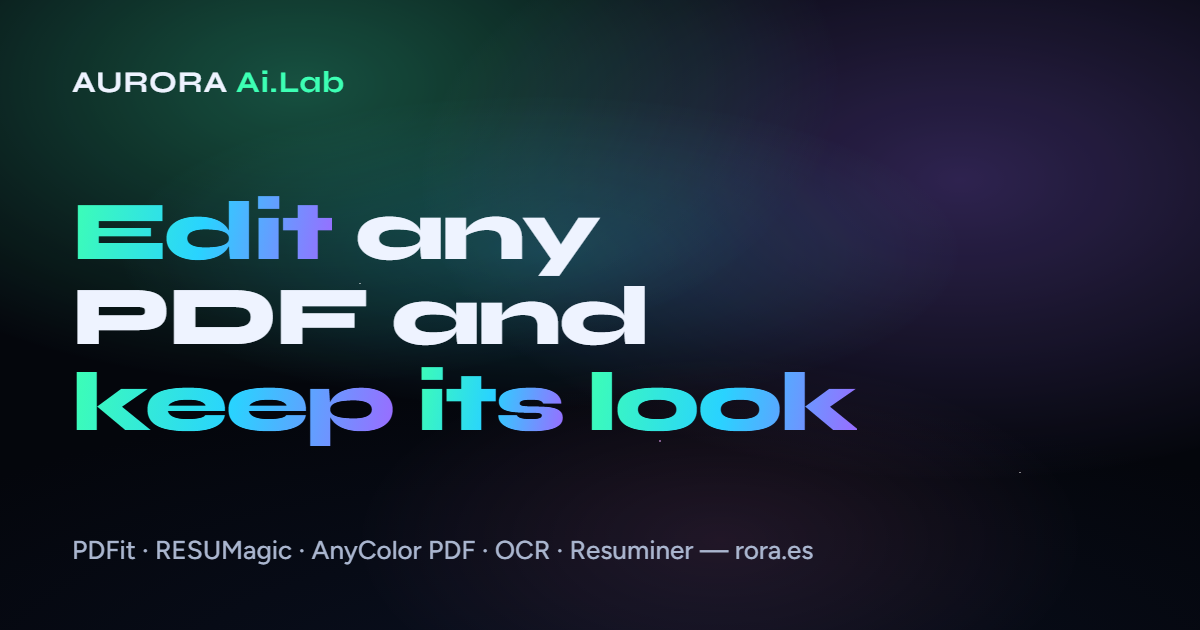
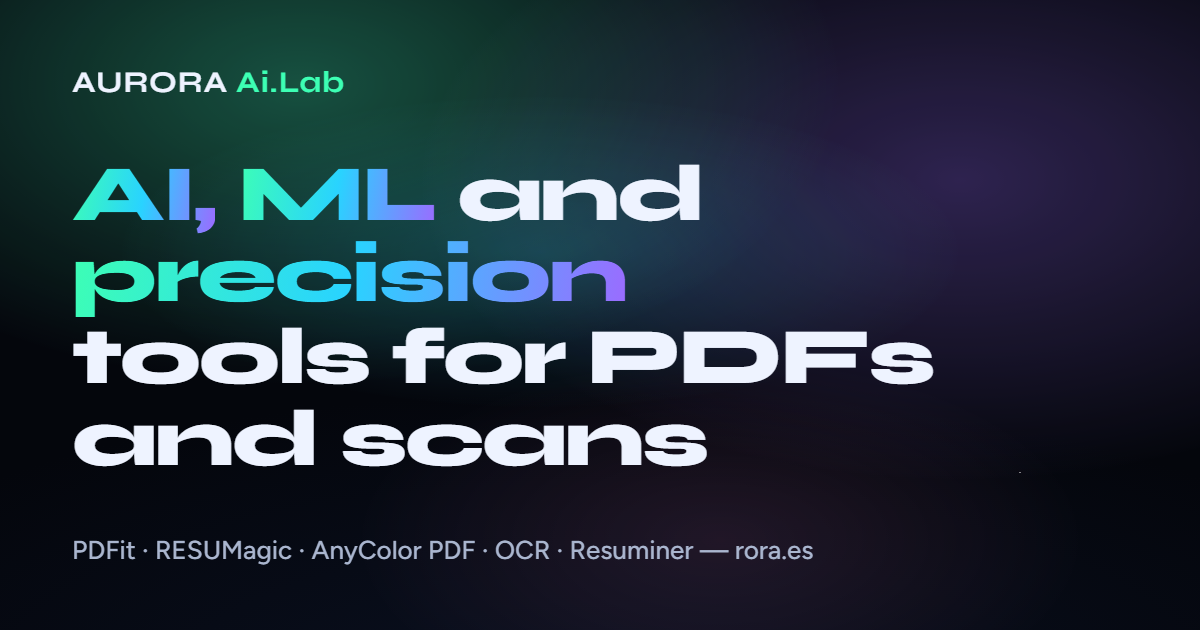
Home page: simpler first screen, AI/ML/precision headline, four-word squares, API access moved to footer
Claude-Session: https://claude.ai/code/session_018wxw8nUirvxwf4q119Hca8

Changed region(s): [[0.0617, 0.2413, 0.8017, 0.754]]

diff --git a/es/index.html b/es/index.html
@@ -3,7 +3,7 @@
 <head>
 <meta charset="utf-8">
 <meta name="viewport" content="width=device-width, initial-scale=1, viewport-fit=cover">
-<title>AURORA Ai.Lab — edita cualquier PDF sin perder su diseño; OCR y análisis de currículos para empresas</title>
+<title>AURORA Ai.Lab — IA, ML y herramientas de precisión para PDF y escaneos</title>
 <meta name="description" content="AURORA Ai.Lab crea herramientas de documentos. Para todos: edición de PDF en línea que conserva fuentes y maquetación, edición de currículos y recoloreado de PDF. Para empresas: OCR para PDF y escaneos y análisis de currículos a XML para ATS.">
 <link rel="canonical" href="https://rora.es/es/">
 <link rel="alternate" hreflang="en" href="https://rora.es/">
@@ -12,7 +12,7 @@
 <meta property="og:type" content="website">
 <meta property="og:site_name" content="AURORA Ai.Lab">
 <meta property="og:locale" content="es_ES">
-<meta property="og:title" content="AURORA Ai.Lab — edita cualquier PDF sin perder su diseño">
+<meta property="og:title" content="AURORA Ai.Lab — IA, ML y herramientas de precisión para PDF y escaneos">
 <meta property="og:description" content="Edición de PDF en línea que conserva fuentes y maquetación, edición de currículos y recoloreado de PDF. OCR y análisis de currículos para empresas.">
 <meta property="og:url" content="https://rora.es/es/">
 <meta property="og:image" content="https://rora.es/og.png">
@@ -40,12 +40,7 @@
   </header>
 
   <main class="hero">
-    <h1><span class="w hl" style="--i:0">Edita</span> <span class="w" style="--i:1">cualquier</span> <span class="w" style="--i:2">PDF</span> <span class="w" style="--i:3">sin</span> <span class="w" style="--i:4">perder</span> <span class="w hl" style="--i:5">su</span> <span class="w hl" style="--i:6">diseño</span><span class="scan" aria-hidden="true"></span></h1>
-    <p class="lede">Redes neuronales propias, OCR y procesamiento de PDF, desarrollados por nosotros.</p>
-    <div class="actions">
-      <a class="btn" href="https://pdfit.rora.es">Editar un PDF con PDFit <span class="go" aria-hidden="true">→</span></a>
-      <a class="link2" href="/ocr.html">Cómo funciona nuestro OCR</a>
-    </div>
+    <h1><span class="w hl" style="--i:0">IA,</span> <span class="w hl" style="--i:1">ML</span> <span class="w" style="--i:2">y</span> <span class="w" style="--i:3">herramientas</span> <span class="w" style="--i:4">de</span> <span class="w hl" style="--i:5">precisión</span> <span class="w" style="--i:6">para</span> <span class="w" style="--i:7">PDF</span> <span class="w" style="--i:8">y</span> <span class="w" style="--i:9">escaneos</span><span class="scan" aria-hidden="true"></span></h1>
   </main>
 
   <section class="products" aria-label="Productos">
@@ -53,20 +48,20 @@
       <div class="group g-people">
         <h2>Para todos</h2>
         <div class="tiles">
-        <a class="tile link" href="https://pdfit.rora.es" style="--n:0">
+        <a class="tile link primary" href="https://pdfit.rora.es" style="--n:0">
           <span class="ico" aria-hidden="true"><svg viewBox="0 0 40 40"><path d="M10 5h14l7 7v23H10z"/><path d="M24 5v7h7M15 19h11M15 24h6M24 22v8"/></svg></span>
           <span class="tag live">En línea</span>
-          <span class="txt"><h3>AURORA PDFit <span class="go" aria-hidden="true">→</span></h3><p>Edición de PDF en línea como en Word, conservando fuentes, flujo del texto, estructura, fondos y gráficos.</p></span>
+          <span class="txt"><h3>AURORA PDFit <span class="go" aria-hidden="true">→</span></h3><p>Edita PDF como en Word</p></span>
         </a>
         <div class="tile" style="--n:1">
           <span class="ico" aria-hidden="true"><svg viewBox="0 0 40 40"><rect x="7" y="6" width="22" height="28" rx="2"/><path d="M12 12h5v8h-5zM20 12h5M20 16h5M20 20h5M12 25h13M12 29h9M33 5v6M30 8h6"/></svg></span>
           <span class="tag">Pronto</span>
-          <span class="txt"><h3>AURORA RESUMagic</h3><p>Editor de currículos en PDF que respeta la estructura de plantillas complejas de Canva y otras.</p></span>
+          <span class="txt"><h3>AURORA RESUMagic</h3><p>Edita currículos de cualquier plantilla</p></span>
         </div>
         <div class="tile" style="--n:2">
           <span class="ico" aria-hidden="true"><svg viewBox="0 0 40 40"><circle cx="15" cy="16" r="8"/><circle cx="25" cy="16" r="8"/><circle cx="20" cy="25" r="8"/></svg></span>
           <span class="tag">Pronto</span>
-          <span class="txt"><h3>AnyColor PDF</h3><p>Recoloreado de PDF para imprimir con los colores de tóner o tinta disponibles.</p></span>
+          <span class="txt"><h3>AnyColor PDF</h3><p>Imprime con cualquier tinta</p></span>
         </div>
         </div>
       </div>
@@ -76,18 +71,16 @@
         <a class="tile link" href="/ocr.html" style="--n:3">
           <span class="ico" aria-hidden="true"><svg viewBox="0 0 40 40"><path d="M6 12V6h6M28 6h6v6M34 28v6h-6M12 34H6v-6"/><path d="M14 28l6-16 6 16M16.5 22h7"/></svg></span>
           <span class="tag more">Detalles</span>
-          <span class="txt"><h3>AURORA OCR <span class="go" aria-hidden="true">→</span></h3><p>OCR para PDF y escaneos: reconocimiento de caracteres y líneas, identificación de fuentes y análisis de maquetación.</p></span>
+          <span class="txt"><h3>AURORA OCR <span class="go" aria-hidden="true">→</span></h3><p>Lee PDF y escaneos</p></span>
         </a>
         <div class="tile" style="--n:4">
           <span class="ico" aria-hidden="true"><svg viewBox="0 0 40 40"><path d="M6 6h14l6 6v22H6z"/><path d="M11 16h9M11 21h9M11 26h5"/><path d="M29 24l-3 3 3 3M34 24l3 3-3 3"/></svg></span>
           <span class="tag">Pronto</span>
-          <span class="txt"><h3>AURORA Resuminer</h3><p>Análisis determinista de currículos a XML estructurado para integración con ATS y búsqueda.</p></span>
+          <span class="txt"><h3>AURORA Resuminer</h3><p>Currículos a XML estructurado</p></span>
         </div>
         </div>
-        <a class="api" href="mailto:info@rora.es?subject=Acceso%20a%20la%20API">Solicitar acceso a la API <span aria-hidden="true">→</span></a>
       </div>
     </div>
-    <p class="stage">Los productos están en distintas fases; varios están cerca del lanzamiento.</p>
   </section>
 
   <footer>
@@ -97,6 +90,7 @@
     <a href="https://es.linkedin.com/in/vladimir-rora">Vladimir Rora en LinkedIn</a><br>
     Empresa: <a href="https://www.linkedin.com/company/aurora-ocr-lab/">AURORA Ai.Lab en LinkedIn</a> ·
     <a href="mailto:info@rora.es">info@rora.es</a> ·
+    <a href="mailto:info@rora.es?subject=Acceso%20a%20la%20API">Solicitar acceso a la API</a> ·
     <a href="/Aurora_OCR_pitch_deck.pdf">Presentación (PDF)</a><br>
     © 2025–2026 Sistema de Autorecluta, S.L. · España<br>
     <a href="/legal.html">Aviso legal / Legal notice</a> · <a href="/privacy.html">Privacidad / Privacy</a>

diff --git a/index.html b/index.html
@@ -3,7 +3,7 @@
 <head>
 <meta charset="utf-8">
 <meta name="viewport" content="width=device-width, initial-scale=1, viewport-fit=cover">
-<title>AURORA Ai.Lab — edit any PDF and keep its look; OCR and resume parsing for business</title>
+<title>AURORA Ai.Lab — AI, ML and precision tools for PDFs and scans</title>
 <meta name="description" content="AURORA Ai.Lab builds document tools. For everyone: online PDF editing that keeps fonts and layout, resume editing and PDF recolouring. For business: OCR for PDFs and scans and resume parsing into XML for ATS.">
 <link rel="canonical" href="https://rora.es/">
 <link rel="alternate" hreflang="en" href="https://rora.es/">
@@ -11,7 +11,7 @@
 <link rel="alternate" hreflang="x-default" href="https://rora.es/">
 <meta property="og:type" content="website">
 <meta property="og:site_name" content="AURORA Ai.Lab">
-<meta property="og:title" content="AURORA Ai.Lab — edit any PDF and keep its look">
+<meta property="og:title" content="AURORA Ai.Lab — AI, ML and precision tools for PDFs and scans">
 <meta property="og:description" content="Online PDF editing that keeps fonts and layout, resume editing and PDF recolouring. OCR and resume parsing for business.">
 <meta property="og:url" content="https://rora.es/">
 <meta property="og:image" content="https://rora.es/og.png">
@@ -39,12 +39,7 @@
   </header>
 
   <main class="hero">
-    <h1><span class="w hl" style="--i:0">Edit</span> <span class="w" style="--i:1">any</span> <span class="w" style="--i:2">PDF</span> <span class="w" style="--i:3">and</span> <span class="w hl" style="--i:4">keep</span> <span class="w hl" style="--i:5">its</span> <span class="w hl" style="--i:6">look</span><span class="scan" aria-hidden="true"></span></h1>
-    <p class="lede">Custom neural networks, OCR and PDF processing, built in-house.</p>
-    <div class="actions">
-      <a class="btn" href="https://pdfit.rora.es">Edit a PDF with PDFit <span class="go" aria-hidden="true">→</span></a>
-      <a class="link2" href="/ocr.html">How our OCR works</a>
-    </div>
+    <h1><span class="w hl" style="--i:0">AI,</span> <span class="w hl" style="--i:1">ML</span> <span class="w" style="--i:2">and</span> <span class="w hl" style="--i:3">precision</span> <span class="w" style="--i:4">tools</span> <span class="w" style="--i:5">for</span> <span class="w" style="--i:6">PDFs</span> <span class="w" style="--i:7">and</span> <span class="w" style="--i:8">scans</span><span class="scan" aria-hidden="true"></span></h1>
   </main>
 
   <section class="products" aria-label="Products">
@@ -52,20 +47,20 @@
       <div class="group g-people">
         <h2>For everyone</h2>
         <div class="tiles">
-        <a class="tile link" href="https://pdfit.rora.es" style="--n:0">
+        <a class="tile link primary" href="https://pdfit.rora.es" style="--n:0">
           <span class="ico" aria-hidden="true"><svg viewBox="0 0 40 40"><path d="M10 5h14l7 7v23H10z"/><path d="M24 5v7h7M15 19h11M15 24h6M24 22v8"/></svg></span>
           <span class="tag live">Live</span>
-          <span class="txt"><h3>AURORA PDFit <span class="go" aria-hidden="true">→</span></h3><p>Word-like online PDF editing that preserves fonts, text flow, structure, backgrounds and graphics.</p></span>
+          <span class="txt"><h3>AURORA PDFit <span class="go" aria-hidden="true">→</span></h3><p>Edit PDFs like Word</p></span>
         </a>
         <div class="tile" style="--n:1">
           <span class="ico" aria-hidden="true"><svg viewBox="0 0 40 40"><rect x="7" y="6" width="22" height="28" rx="2"/><path d="M12 12h5v8h-5zM20 12h5M20 16h5M20 20h5M12 25h13M12 29h9M33 5v6M30 8h6"/></svg></span>
           <span class="tag">Soon</span>
-          <span class="txt"><h3>AURORA RESUMagic</h3><p>Structure-aware PDF resume editor for complex Canva and other templates.</p></span>
+          <span class="txt"><h3>AURORA RESUMagic</h3><p>Edit résumés from any template</p></span>
         </div>
         <div class="tile" style="--n:2">
           <span class="ico" aria-hidden="true"><svg viewBox="0 0 40 40"><circle cx="15" cy="16" r="8"/><circle cx="25" cy="16" r="8"/><circle cx="20" cy="25" r="8"/></svg></span>
           <span class="tag">Soon</span>
-          <span class="txt"><h3>AnyColor PDF</h3><p>PDF recolouring for printing with available toner or ink colours.</p></span>
+          <span class="txt"><h3>AnyColor PDF</h3><p>Print with any ink</p></span>
         </div>
         </div>
       </div>
@@ -75,18 +70,16 @@
         <a class="tile link" href="/ocr.html" style="--n:3">
           <span class="ico" aria-hidden="true"><svg viewBox="0 0 40 40"><path d="M6 12V6h6M28 6h6v6M34 28v6h-6M12 34H6v-6"/><path d="M14 28l6-16 6 16M16.5 22h7"/></svg></span>
           <span class="tag more">Details</span>
-          <span class="txt"><h3>AURORA OCR <span class="go" aria-hidden="true">→</span></h3><p>OCR for PDFs and scans: character/text-line recognition, font identification and layout analysis.</p></span>
+          <span class="txt"><h3>AURORA OCR <span class="go" aria-hidden="true">→</span></h3><p>Read PDFs and scans</p></span>
         </a>
         <div class="tile" style="--n:4">
           <span class="ico" aria-hidden="true"><svg viewBox="0 0 40 40"><path d="M6 6h14l6 6v22H6z"/><path d="M11 16h9M11 21h9M11 26h5"/><path d="M29 24l-3 3 3 3M34 24l3 3-3 3"/></svg></span>
           <span class="tag">Soon</span>
-          <span class="txt"><h3>AURORA Resuminer</h3><p>Deterministic resume parsing into structured XML for ATS integration and search.</p></span>
+          <span class="txt"><h3>AURORA Resuminer</h3><p>Résumés to structured XML</p></span>
         </div>
         </div>
-        <a class="api" href="mailto:info@rora.es?subject=API%20access">Request API access <span aria-hidden="true">→</span></a>
       </div>
     </div>
-    <p class="stage">Products are at different stages; several are approaching launch.</p>
   </section>
 
   <footer>
@@ -96,6 +89,7 @@
     <a href="https://es.linkedin.com/in/vladimir-rora">Vladimir Rora on LinkedIn</a><br>
     Company: <a href="https://www.linkedin.com/company/aurora-ocr-lab/">AURORA Ai.Lab on LinkedIn</a> ·
     <a href="mailto:info@rora.es">info@rora.es</a> ·
+    <a href="mailto:info@rora.es?subject=API%20access">Request API access</a> ·
     <a href="/Aurora_OCR_pitch_deck.pdf">Pitch deck (PDF)</a><br>
     © 2025–2026 Sistema de Autorecluta, S.L. · Spain<br>
     <a href="/legal.html">Legal notice / Aviso legal</a> · <a href="/privacy.html">Privacy / Privacidad</a>

diff --git a/aurora.css b/aurora.css
@@ -61,8 +61,8 @@ header { display: flex; justify-content: space-between; align-items: center; gap
 .lang a[aria-current="true"] { color: var(--night); background: var(--ink); }
 
 /* hero: the promise, read in by a scan line */
-.hero { position: relative; display: grid; gap: 16px; justify-items: start; padding-top: clamp(8px, 4vh, 40px); }
-h1 { position: relative; margin: 0; max-width: 17ch; font: 800 clamp(2rem, 5.2vw, 4.4rem)/1.02 var(--display); letter-spacing: -.03em; text-wrap: balance; }
+.hero { position: relative; display: grid; justify-items: start; padding-top: clamp(16px, 7vh, 72px); padding-bottom: clamp(0px, 2vh, 16px); }
+h1 { position: relative; margin: 0; max-width: 16ch; font: 800 clamp(2rem, 5.2vw, 4.4rem)/1.02 var(--display); letter-spacing: -.03em; text-wrap: balance; }
 h1 .w { display: inline-block; animation: read 1s cubic-bezier(.16, 1, .3, 1) both; animation-delay: calc(var(--i) * 80ms + 200ms); }
 h1 .w.hl { color: transparent; -webkit-background-clip: text; background-clip: text;
   background-image: linear-gradient(100deg, var(--green), var(--teal) 50%, var(--violet)); }
@@ -93,7 +93,7 @@ h1 .w.hl { color: transparent; -webkit-background-clip: text; background-clip: t
 .api { justify-self: start; font-weight: 600; color: var(--teal); text-decoration: none; padding: 4px 0; }
 .api span { display: inline-block; transition: transform .3s cubic-bezier(.16, 1, .3, 1); }
 .api:hover span { transform: translateX(4px); }
-.tile { position: relative; min-width: 0; min-height: clamp(12.5rem, 16vw, 14.5rem); border-radius: 22px; padding: 18px; isolation: isolate;
+.tile { position: relative; min-width: 0; min-height: clamp(10.5rem, 13vw, 12rem); border-radius: 22px; padding: 18px; isolation: isolate;
   display: flex; flex-direction: column; gap: 10px; text-decoration: none; color: var(--ink);
   background: linear-gradient(160deg, rgba(255,255,255,.09), rgba(255,255,255,.02) 55%), var(--glass);
   backdrop-filter: blur(18px) saturate(140%); -webkit-backdrop-filter: blur(18px) saturate(140%);
@@ -120,7 +120,10 @@ h1 .w.hl { color: transparent; -webkit-background-clip: text; background-clip: t
 .tile h3 { margin: 0; font: 700 clamp(1.02rem, 1.4vw, 1.22rem)/1.12 var(--display); letter-spacing: -.01em; text-wrap: balance; }
 .tile h3 .go { display: inline-block; color: var(--green); transition: transform .4s cubic-bezier(.16, 1, .3, 1); }
 .tile.link:hover h3 .go { transform: translateX(5px); }
-.tile p { margin: 0; font-size: .84rem; line-height: 1.45; color: var(--ink-soft); }
+.tile p { margin: 0; font-size: .95rem; line-height: 1.4; color: var(--ink-soft); }
+/* the one product people can use today stands out */
+.tile.primary { background: linear-gradient(160deg, rgba(61,255,180,.16), rgba(41,211,255,.05) 60%), var(--glass); }
+.tile.primary h3 { color: #fff; }
 .tag { position: absolute; top: 16px; right: 16px; display: inline-flex; align-items: center; gap: 6px; padding: 3px 9px; border-radius: 999px;
   font: 600 .66rem var(--body); letter-spacing: .1em; text-transform: uppercase; color: var(--ink-faint); border: 1px solid var(--glass-edge); }
 .tag.live { color: var(--green); border-color: rgba(61,255,180,.35); }
@@ -146,10 +149,10 @@ footer a:hover { color: var(--ink); }
   .tile { min-height: 0; flex-direction: row; align-items: flex-start; gap: 14px; padding: 14px 16px; border-radius: 18px; }
   .ico { width: 30px; height: 30px; margin-top: 2px; }
   .txt { margin-top: 0; padding-right: 88px; }
-  .tile p { font-size: .8rem; }
+  .tile p { font-size: .88rem; }
   .tag { top: 14px; right: 14px; }
   .btn { width: 100%; justify-content: center; }
-  h1 { font-size: min(2.4rem, 9vw); }
+  h1 { font-size: min(2.4rem, 8.4vw); }
 }
 @media (prefers-reduced-motion: reduce) {
   .band, .tile::before, .tag.live::before, h1 .w, .tile { animation: none; }
